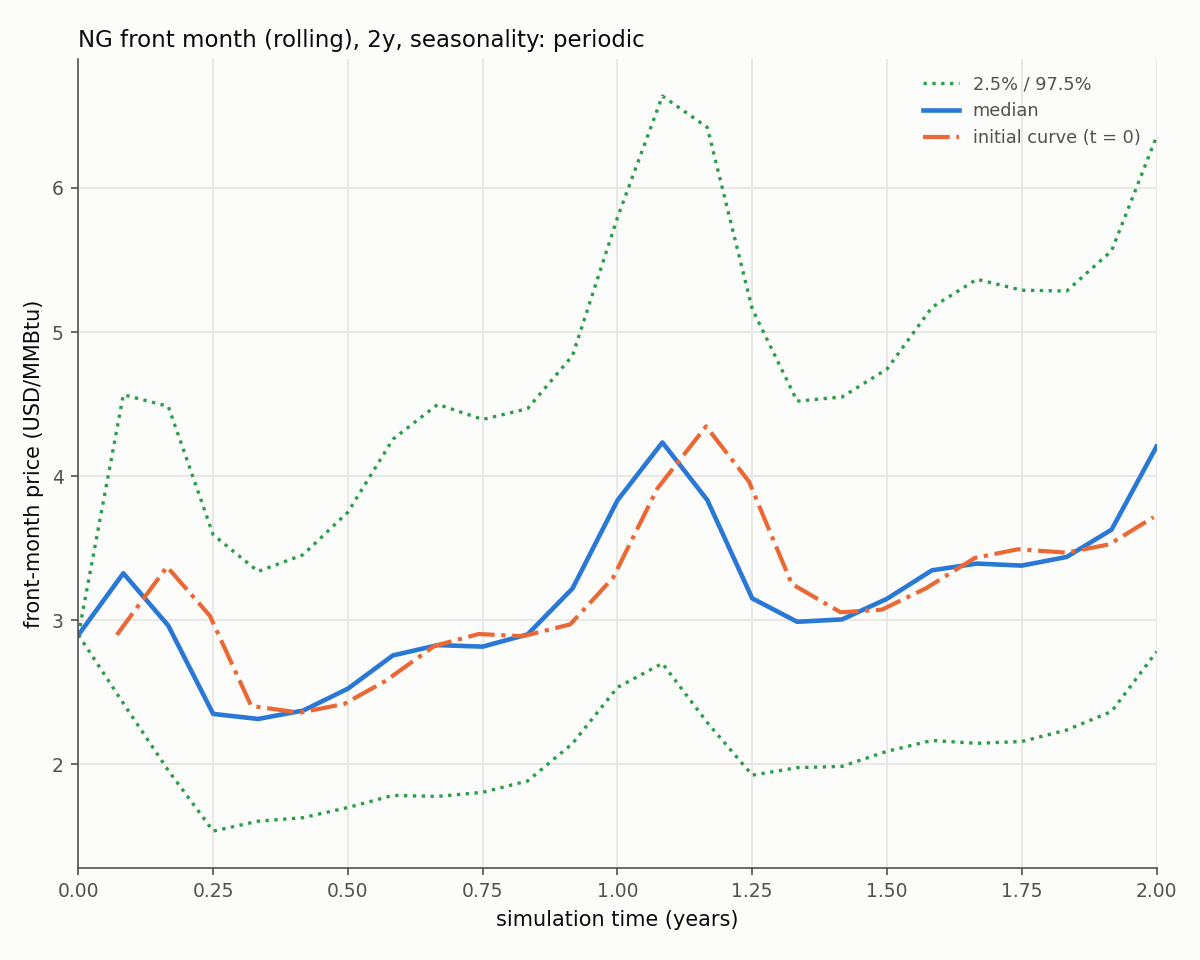
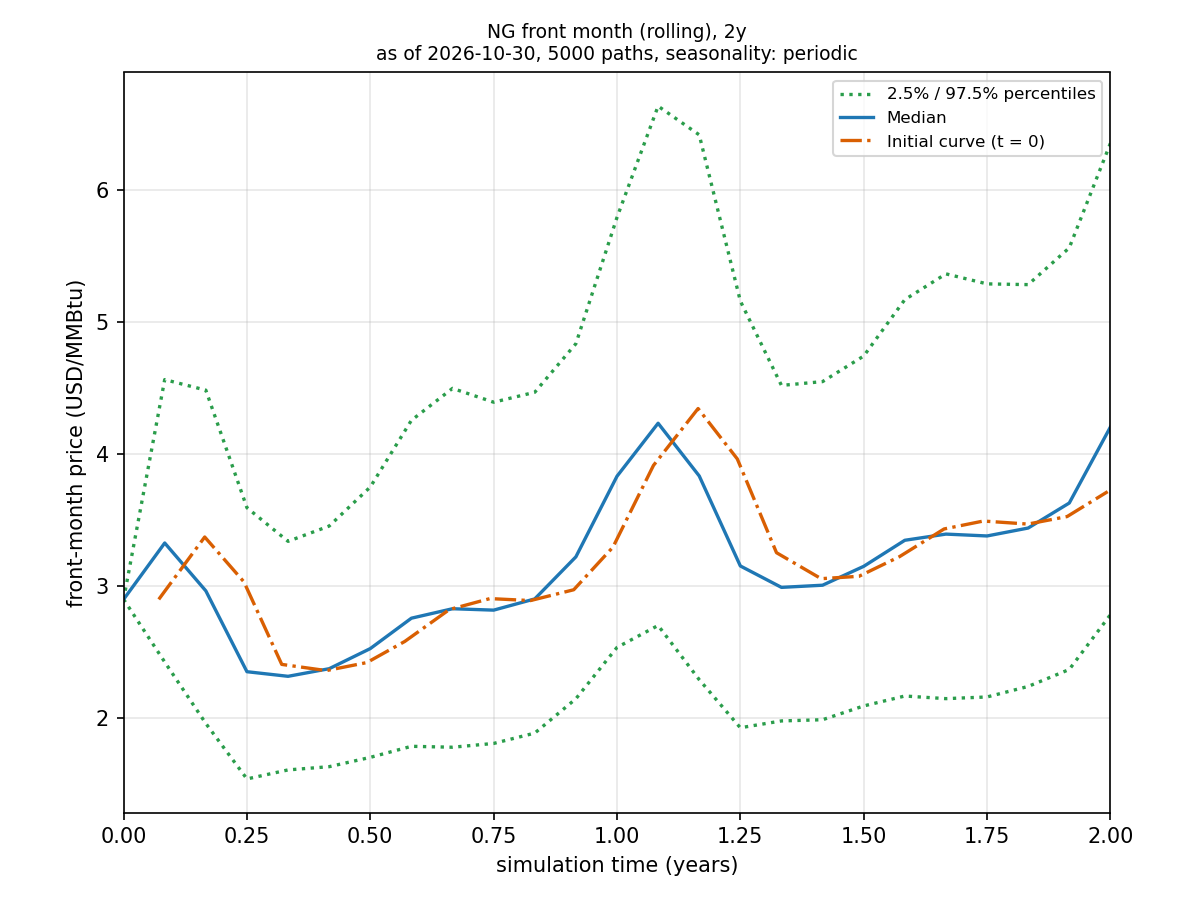
Use one plot style (4:3 plot areas, same fonts and line styles) in the Two-factor Andersen showcase

diff --git a/TwoFactorAndersenRiskFactorModel/Python/demo_synthetic_fit.py b/TwoFactorAndersenRiskFactorModel/Python/demo_synthetic_fit.py
@@ -41,18 +41,21 @@ def main(seed=7):
     grid = np.linspace(0, 2.0, 200)
     assert np.all(sigma12(grid, fit_atm) > sigma12(grid, fit_hist)), "implied should sit above historical"
 
-    fig, ax = plt.subplots(figsize=(5.5, 5.5))
-    ax.plot(T, atm, "^", ms=5, color="tab:blue", label="synthetic ATM implied vol")
-    ax.plot(grid, sigma12(grid, fit_atm), "-", color="tab:blue", label="fitted ATM")
-    ax.plot(T, hist, "o", ms=4, color="tab:orange", label="synthetic historical vol")
-    ax.plot(grid, sigma12(grid, fit_hist), "--", color="tab:orange", label="fitted hist")
+    blue, orange = "#1f77b4", "#d95f02"
+    fig, ax = plt.subplots(figsize=(8, 6))                 # 4:3 figure and plot area, same look as the full project
+    ax.set_box_aspect(3 / 4)
+    ax.plot(T, atm, "^", ms=5, color=blue, label="ATM vol")
+    ax.plot(grid, sigma12(grid, fit_atm), "-", lw=1.6, color=blue, label="Fitted ATM")
+    ax.plot(T, hist, "o", ms=4, color=orange, label="Hist vol")
+    ax.plot(grid, sigma12(grid, fit_hist), "--", lw=1.6, color=orange, label="Fitted hist")
     ax.set_xlabel("contract (in years)")
     ax.set_ylabel("vol")
     ax.set_title("Two-factor Andersen curves fitted to synthetic data", fontsize=9)
     ax.grid(alpha=0.3)
-    ax.legend()
+    ax.legend(fontsize=8, loc="upper right")
+    fig.tight_layout()
     OUT.parent.mkdir(exist_ok=True)
-    fig.savefig(OUT, dpi=150, bbox_inches="tight")
+    fig.savefig(OUT, dpi=150)
     print(f"saved {OUT}")
 
 
